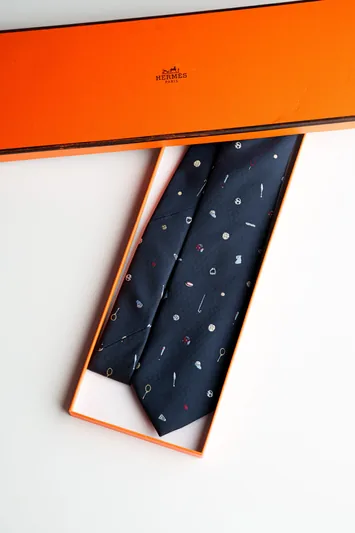
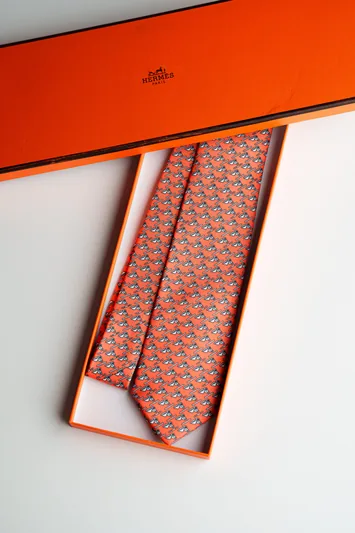
Replace HERMES Navy Blue tie in Choose a Tie modal with HERMES Colourful Jump Silk Tie (Orange)

diff --git a/src/signature-landing.jsx b/src/signature-landing.jsx
@@ -1434,17 +1434,17 @@ const FindYourPerfectTie = ({ addToCart, onQuickView }) => {
       currency: "LE"
     },
     {
-      name: "HERMÈS - Hermes Paris Silk Tie (Navy Blue)",
-      tieImage: "/products/HERMES/02-navy-blue-hermes-paris-tie/hermes-navy-blue-tie.jpg",
+      name: "HERMÈS - Colourful Jump Silk Tie (Orange)",
+      tieImage: "/products/HERMES/01-orange-colourful-jump-silk-tie/Orange%20Colourful%20Jump%20Silk%20Tie.jpg",
       thumbImage: "/matching-thumbs/tie-thumb-13.webp",
       matchingLooks: [
-        { label: "Hermès Navy Look 1", image: "/matching/hermes-orange-1.jpg" },
-        { label: "Hermès Navy Look 2", image: "/matching/hermes-orange-2.jpg" },
-        { label: "Hermès Navy Look 3", image: "/matching/hermes-orange-3.jpg" },
-        { label: "Hermès Navy Look 4", image: "/matching/hermes-orange-4.jpg" }
+        { label: "Hermès Orange Look 1", image: "/matching/hermes-orange-1.jpg" },
+        { label: "Hermès Orange Look 2", image: "/matching/hermes-orange-2.jpg" },
+        { label: "Hermès Orange Look 3", image: "/matching/hermes-orange-3.jpg" },
+        { label: "Hermès Orange Look 4", image: "/matching/hermes-orange-4.jpg" }
       ],
-      title: "HERMÈS - Hermes Paris Silk Tie (Navy Blue)",
-      price: "1300.00",
+      title: "HERMÈS - Colourful Jump Silk Tie (Orange)",
+      price: "1400.00",
       currency: "LE"
     },
     {
